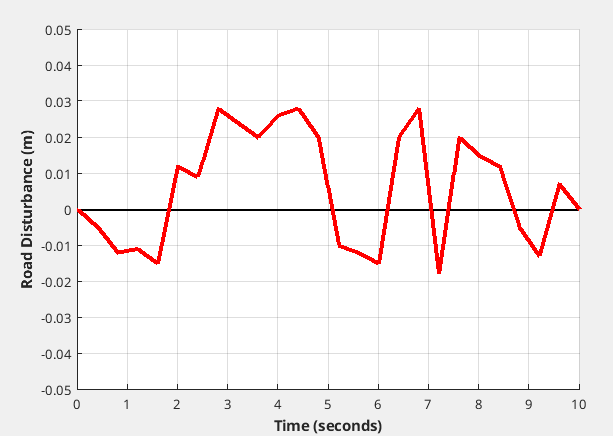
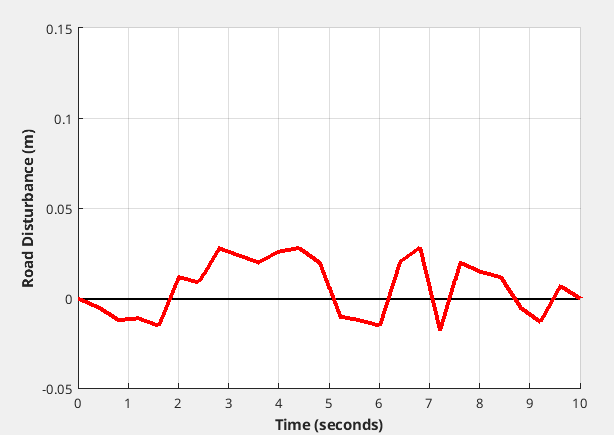
UPdate 23-07-2024_2

diff --git a/Article_Active_Suspension_Control/Fuzzy_Control_Dataset.m b/Article_Active_Suspension_Control/Fuzzy_Control_Dataset.m
@@ -115,7 +115,7 @@ hold('on');
 plot(road_2_1, 'LineWidth' , 1.5, 'Color', 'Black');
 plot(road_2, 'LineWidth' , 3, 'Color', 'Red');
 xlim([0,10]);
-ylim([-0.05,0.05]);
+ylim([-0.05,0.15]);
 
 
 
